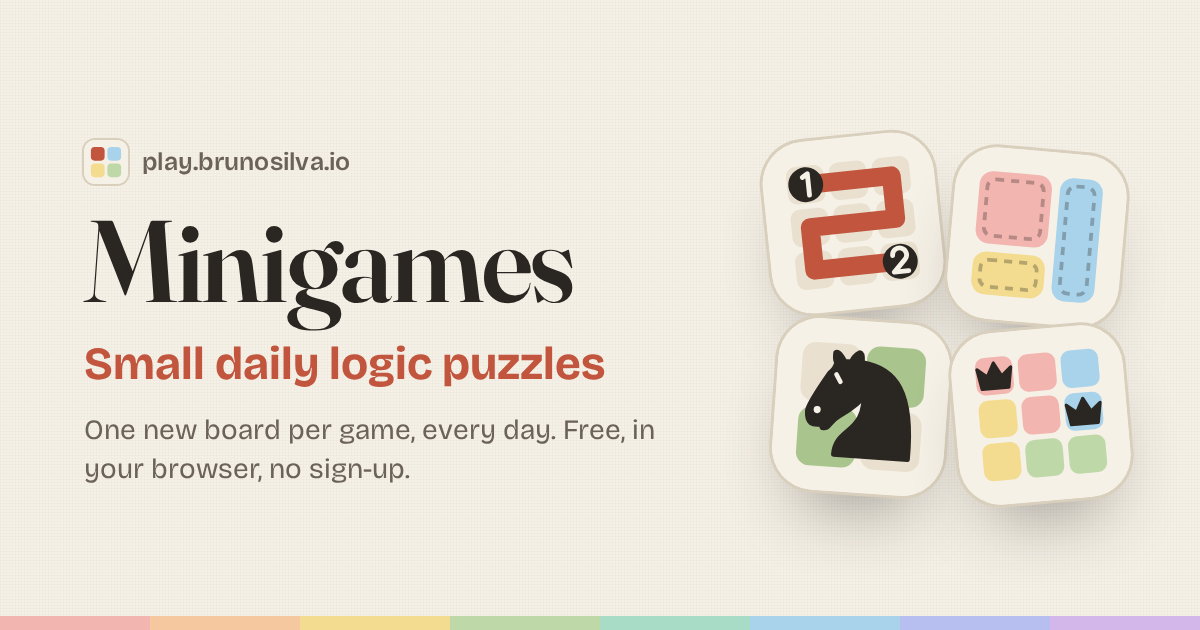
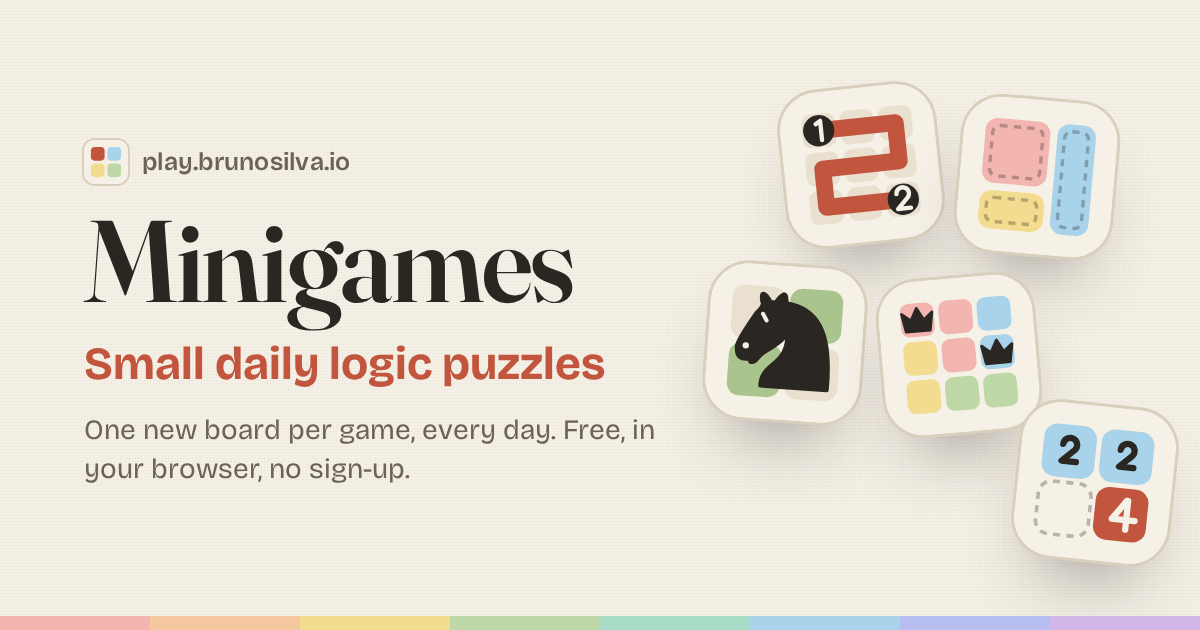
feat(platform): list sumbreak on the hub
Register the game: hub card, footer link, PWA pages and shortcut, Open
Graph card and npm scripts. The service worker cache is bumped so
installed copies fetch the new pages.

Changed region(s): [[0.5858, 0.1508, 0.9867, 0.9349], [0.6783, 0.1206, 0.7708, 0.1508], [0.5858, 0.4222, 0.6167, 0.4524]]

diff --git a/e2e/platform/mobile-pwa.spec.ts b/e2e/platform/mobile-pwa.spec.ts
@@ -4,11 +4,13 @@ import { board as patchesBoard, cellCenter, draw, openPuzzle, practicePuzzle, re
 import { board as zipBoard, cellPoint, drawCells, openZip, visited, zipPuzzle } from "../zip/helpers";
 import { chessPuzzle, openChess, tapMove, verdict as chessVerdict } from "../chess/helpers";
 import { openQueens, placeQueen, queens as placedQueens, queensPuzzle } from "../queens/helpers";
+import { dragMerge, openSumbreak, sumbreakPuzzle, tiles as sumbreakTiles } from "../sumbreak/helpers";
 
 const patches = practicePuzzle("e2e-mobile", "hard", 8);
 const zip = zipPuzzle("e2e-mobile", "hard", 8);
 const chess = chessPuzzle("e2e-mobile", "easy");
 const queens = queensPuzzle("e2e-mobile", "medium", 7);
+const sumbreak = sumbreakPuzzle("e2e-mobile", "medium", 3);
 
 test.beforeEach(async ({ page }) => {
   await skipTutorials(page);
@@ -102,7 +104,7 @@ test("the manifest makes the platform installable", async ({ page, request }) =>
   for (const icon of [...manifest.icons, ...manifest.shortcuts.flatMap((shortcut: { icons: { src: string }[] }) => shortcut.icons)]) {
     expect((await request.get(icon.src)).ok(), icon.src).toBe(true);
   }
-  expect(manifest.shortcuts.map((shortcut: { url: string }) => shortcut.url)).toEqual(["/zip", "/patches", "/chess", "/queens"]);
+  expect(manifest.shortcuts.map((shortcut: { url: string }) => shortcut.url)).toEqual(["/zip", "/patches", "/chess", "/queens", "/sumbreak"]);
 });
 
 test("after one online visit the hub and every game load and play offline", async ({ page, context }) => {
@@ -110,9 +112,9 @@ test("after one online visit the hub and every game load and play offline", asyn
   await page.evaluate(async () => {
     await navigator.serviceWorker.ready;
     for (let i = 0; i < 150; i++) {
-      const keys = await (await caches.open("minigames-shell-v2")).keys();
+      const keys = await (await caches.open("minigames-shell-v3")).keys();
       const has = (suffix: string) => keys.some((key) => new URL(key.url).pathname === suffix);
-      if (navigator.serviceWorker.controller && has("/zip/play") && has("/patches/play") && has("/chess/play") && has("/queens/play") && keys.some((key) => key.url.includes("/_next/static/"))) return;
+      if (navigator.serviceWorker.controller && has("/zip/play") && has("/patches/play") && has("/chess/play") && has("/queens/play") && has("/sumbreak/play") && keys.some((key) => key.url.includes("/_next/static/"))) return;
       await new Promise((resolve) => setTimeout(resolve, 100));
     }
     throw new Error("service worker did not finish precaching");
@@ -138,5 +140,9 @@ test("after one online visit the hub and every game load and play offline", asyn
   await openQueens(page, queens.url);
   await placeQueen(page, queens.puzzle.size, queens.puzzle.solution[0]);
   await expect(placedQueens(page)).toHaveCount(1);
+
+  await openSumbreak(page, sumbreak.url);
+  await dragMerge(page, 3, sumbreak.puzzle.solution[0]);
+  await expect(sumbreakTiles(page)).toHaveCount(8);
   await context.setOffline(false);
 });

diff --git a/scripts/make-og-images.ts b/scripts/make-og-images.ts
@@ -31,12 +31,13 @@ const cards: Card[] = [
     headline: "Small daily logic puzzles",
     description: "One new board per game, every day. Free, in your browser, no sign-up.",
     path: "",
-    // Every game icon, two by two and slightly turned, so that each one stays readable.
+    // Every game icon, staggered and slightly turned, so that each one stays readable.
     art: `<div class="quad">${[
-      ["zip", -92, -92, -6],
-      ["patches", 92, -78, 5],
-      ["chess", -84, 92, 4],
-      ["queens", 96, 100, -5],
+      ["zip", -84, -150, -6],
+      ["patches", 92, -138, 5],
+      ["chess", -160, 28, 4],
+      ["queens", 14, 40, -5],
+      ["sumbreak", 150, 168, 6],
     ]
       .map(([name, x, y, turn]) => `<div class="tile tiny" style="transform: translate(${x}px, ${y}px) rotate(${turn}deg)">${icon(String(name))}</div>`)
       .join("")}</div>`,
@@ -44,6 +45,7 @@ const cards: Card[] = [
   { file: "zip.png", title: GAMES.zip.name, headline: GAMES.zip.tagline, description: `${GAMES.zip.description} A new board every day.`, path: GAMES.zip.path, art: singleArt("zip") },
   { file: "patches.png", title: GAMES.patches.name, headline: GAMES.patches.tagline, description: `${GAMES.patches.description} A new board every day.`, path: GAMES.patches.path, art: singleArt("patches") },
   { file: "chess.png", title: GAMES.chess.name, headline: GAMES.chess.tagline, description: "Mate, win material or save the position, with a coach at your side. A new puzzle every day.", path: GAMES.chess.path, art: singleArt("chess") },
+  { file: "sumbreak.png", title: GAMES.sumbreak.name, headline: GAMES.sumbreak.tagline, description: "Merge equal neighbours into their sum, in the right order. A new board every day.", path: GAMES.sumbreak.path, art: singleArt("sumbreak") },
   { file: "queens.png", title: GAMES.queens.name, headline: "One queen per row, column and colour", description: "Place the queens so that no two touch. A new board every day.", path: GAMES.queens.path, art: singleArt("queens") },
 ];
 
@@ -70,7 +72,7 @@ const page = (card: Card): string => `<!doctype html>
   .tile.big { width: 380px; height: 380px; border-radius: 90px; }
   .tile.small { width: 236px; height: 236px; border-radius: 56px; }
   .tile svg { width: 100%; height: 100%; display: block; }
-  .tile.tiny { width: 172px; height: 172px; border-radius: 42px; }
+  .tile.tiny { width: 154px; height: 154px; border-radius: 38px; }
   .quad { display: grid; }
   .quad .tile { grid-area: 1 / 1; }
   /* A strip of fabric along the bottom edge, one swatch per palette colour. */

diff --git a/src/shared/ui/game-icons.tsx b/src/shared/ui/game-icons.tsx
@@ -87,6 +87,24 @@ export function QueensIcon({ className, title }: Props) {
   );
 }
 
+/** Two equal tiles about to merge, above the tile they make. */
+export function SumbreakIcon({ className, title }: Props) {
+  return (
+    <svg {...frame} className={className} role={title ? "img" : undefined} aria-label={title} aria-hidden={title ? undefined : true}>
+      <rect width="64" height="64" rx="15" fill="#f6f1e7" />
+      <rect x="9" y="9" width="22" height="22" rx="5.5" fill="#a8d3ea" />
+      <rect x="33" y="9" width="22" height="22" rx="5.5" fill="#a8d3ea" />
+      <rect x="9" y="33" width="22" height="22" rx="5.5" fill="none" stroke="#2a2622" strokeOpacity=".3" strokeWidth="1.5" strokeDasharray="3 2.6" />
+      <rect x="33" y="33" width="22" height="22" rx="5.5" fill="#c2553d" />
+      <g fill="none" stroke="#2a2622" strokeWidth="2.6" strokeLinecap="round" strokeLinejoin="round">
+        <path d="M17.2 17.2a2.9 2.9 0 1 1 5 2.1l-5 4.9h6" />
+        <path d="M41.2 17.2a2.9 2.9 0 1 1 5 2.1l-5 4.9h6" />
+      </g>
+      <path d="M46.5 38v12M40.5 46l5.5-8h.500M40.5 46h9.5" fill="none" stroke="#f6f1e7" strokeWidth="2.6" strokeLinecap="round" strokeLinejoin="round" />
+    </svg>
+  );
+}
+
 /** Platform mark: four tiles, one per kind of fabric. */
 export function PlatformIcon({ className, title }: Props) {
   return (
@@ -101,6 +119,6 @@ export function PlatformIcon({ className, title }: Props) {
 }
 
 export function GameIcon({ game, ...props }: Props & { game: GameId }) {
-  const Icon = { zip: ZipIcon, patches: PatchesIcon, chess: ChessIcon, queens: QueensIcon }[game];
+  const Icon = { zip: ZipIcon, patches: PatchesIcon, chess: ChessIcon, queens: QueensIcon, sumbreak: SumbreakIcon }[game];
   return <Icon {...props} />;
 }

diff --git a/public/sw.js b/public/sw.js
@@ -16,9 +16,9 @@
  *   the failed fetch makes Next.js fall back to a full navigation, which the
  *   cached page answers.
  */
-const CACHE = "minigames-shell-v2";
-const PAGES = ["/", "/zip", "/zip/practice", "/zip/play", "/patches", "/patches/practice", "/patches/play", "/chess", "/chess/practice", "/chess/play", "/queens", "/queens/practice", "/queens/play"];
-const EXTRAS = ["/manifest.webmanifest", "/icons/platform.svg", "/icons/zip.svg", "/icons/patches.svg", "/icons/chess.svg", "/icons/queens.svg", "/icons/icon-192.png", "/icons/icon-512.png"];
+const CACHE = "minigames-shell-v3";
+const PAGES = ["/", "/zip", "/zip/practice", "/zip/play", "/patches", "/patches/practice", "/patches/play", "/chess", "/chess/practice", "/chess/play", "/queens", "/queens/practice", "/queens/play", "/sumbreak", "/sumbreak/practice", "/sumbreak/play"];
+const EXTRAS = ["/manifest.webmanifest", "/icons/platform.svg", "/icons/zip.svg", "/icons/patches.svg", "/icons/chess.svg", "/icons/queens.svg", "/icons/sumbreak.svg", "/icons/icon-192.png", "/icons/icon-512.png"];
 const STATIC_ASSET = /\/_next\/static\/[^"'\\\s)<>]+/g;
 
 async function precache() {

diff --git a/src/shared/ui/hub/hub.tsx b/src/shared/ui/hub/hub.tsx
@@ -9,6 +9,8 @@ import { patchesPuzzleId } from "@/games/patches/engine/generator/generate";
 import { getQueensDailyInfo } from "@/games/queens/engine/daily";
 import { queensPuzzleId } from "@/games/queens/engine/generator";
 import { GAME_LIST, type GameId, type GameMeta, PLATFORM_NAME } from "@/games/registry";
+import { getSumbreakDailyInfo } from "@/games/sumbreak/engine/daily";
+import { sumbreakPuzzleId } from "@/games/sumbreak/engine/generator";
 import { getZipDailyInfo } from "@/games/zip/engine/daily";
 import { zipPuzzleId } from "@/games/zip/engine/generator";
 import { clockElapsed, formatTime, restoreClock } from "@/shared/engine/clock";
@@ -26,6 +28,7 @@ const DAILY: Record<GameId, { info: (date: string) => DailyInfo; puzzleId: (seed
   patches: { info: getPatchesDaily, puzzleId: patchesPuzzleId },
   chess: { info: getChessDailyInfo, puzzleId: chessPuzzleId },
   queens: { info: getQueensDailyInfo, puzzleId: queensPuzzleId },
+  sumbreak: { info: getSumbreakDailyInfo, puzzleId: sumbreakPuzzleId },
 };
 
 type Today =

diff --git a/src/games/registry.ts b/src/games/registry.ts
@@ -1,5 +1,5 @@
 /** Every game on the platform. The hub, the headers and the footers are built from this list. */
-export const GAME_IDS = ["zip", "patches", "chess", "queens"] as const;
+export const GAME_IDS = ["zip", "patches", "chess", "queens", "sumbreak"] as const;
 export type GameId = (typeof GAME_IDS)[number];
 
 export type GameMeta = {
@@ -52,6 +52,15 @@ export const GAMES: Record<GameId, GameMeta> = {
     description: "Place a queen in every row, column and coloured region so that no two queens touch.",
     path: "/queens",
     mistakesLabel: "Takebacks",
+    hasSizes: true,
+  },
+  sumbreak: {
+    id: "sumbreak",
+    name: "Sumbreak",
+    tagline: "Merge down to one tile",
+    description: "Merge equal neighbours into their sum, in the right order, until a single tile is left.",
+    path: "/sumbreak",
+    mistakesLabel: "Missteps",
     hasSizes: true,
   },
 };

diff --git a/e2e/platform/hub.spec.ts b/e2e/platform/hub.spec.ts
@@ -68,7 +68,7 @@ test("every game is on the hub from its launch day, numbered from 1", async ({ p
   // 2026-11-23 18:00 UTC is a Monday morning in Pacific time, the day after Chess and Queens launched.
   await page.clock.setFixedTime(new Date("2026-11-23T18:00:00Z"));
   await page.goto("/");
-  for (const game of ["zip", "patches", "chess", "queens"]) await expect(page.getByTestId(`hub-card-${game}`)).toBeVisible();
+  for (const game of ["zip", "patches", "chess", "queens", "sumbreak"]) await expect(page.getByTestId(`hub-card-${game}`)).toBeVisible();
   await expect(page.getByTestId("hub-today-chess")).toContainText("#2");
   await expect(page.getByTestId("hub-today-chess")).toContainText("easy");
   await expect(page.getByTestId("hub-today-queens")).toContainText("#2");

diff --git a/e2e/platform/sound.spec.ts b/e2e/platform/sound.spec.ts
@@ -13,7 +13,7 @@ type Probe = { tones: number; peaks: number[]; masters: number[]; limiters: numb
  */
 async function installProbe(page: import("@playwright/test").Page): Promise<void> {
   await page.addInitScript(([key]) => {
-    localStorage.setItem(key, JSON.stringify({ sound: true, haptics: false, tutorials: { zip: true, patches: true, chess: true, queens: true } }));
+    localStorage.setItem(key, JSON.stringify({ sound: true, haptics: false, tutorials: { zip: true, patches: true, chess: true, queens: true, sumbreak: true } }));
     const probe = { tones: 0, peaks: [] as number[], masters: [] as number[], limiters: 0, frequencies: [] as number[] };
     (window as unknown as { __audio: typeof probe }).__audio = probe;
 

diff --git a/e2e/shared.ts b/e2e/shared.ts
@@ -5,7 +5,7 @@ export const SETTINGS_KEY = "minigames:settings:v1";
 /** Most tests start past the tutorials and with sound off. The tutorials have their own tests. */
 export async function skipTutorials(page: Page): Promise<void> {
   await page.addInitScript(([key]) => {
-    if (!localStorage.getItem(key)) localStorage.setItem(key, JSON.stringify({ sound: false, haptics: false, tutorials: { zip: true, patches: true, chess: true, queens: true } }));
+    if (!localStorage.getItem(key)) localStorage.setItem(key, JSON.stringify({ sound: false, haptics: false, tutorials: { zip: true, patches: true, chess: true, queens: true, sumbreak: true } }));
   }, [SETTINGS_KEY]);
 }
 

diff --git a/scripts/make-icons.ts b/scripts/make-icons.ts
@@ -18,6 +18,7 @@ const targets = [
   { source: "patches.svg", file: "patches-192.png", size: 192, padding: 0 },
   { source: "chess.svg", file: "chess-192.png", size: 192, padding: 0 },
   { source: "queens.svg", file: "queens-192.png", size: 192, padding: 0 },
+  { source: "sumbreak.svg", file: "sumbreak-192.png", size: 192, padding: 0 },
 ];
 
 async function main(): Promise<void> {

diff --git a/e2e/platform/metadata.spec.ts b/e2e/platform/metadata.spec.ts
@@ -6,6 +6,7 @@ const PAGES = [
   { path: "/patches", image: "/og/patches.png", title: /Patches/ },
   { path: "/chess", image: "/og/chess.png", title: /Chess/ },
   { path: "/queens", image: "/og/queens.png", title: /Queens/ },
+  { path: "/sumbreak", image: "/og/sumbreak.png", title: /Sumbreak/ },
 ];
 
 for (const entry of PAGES) {
